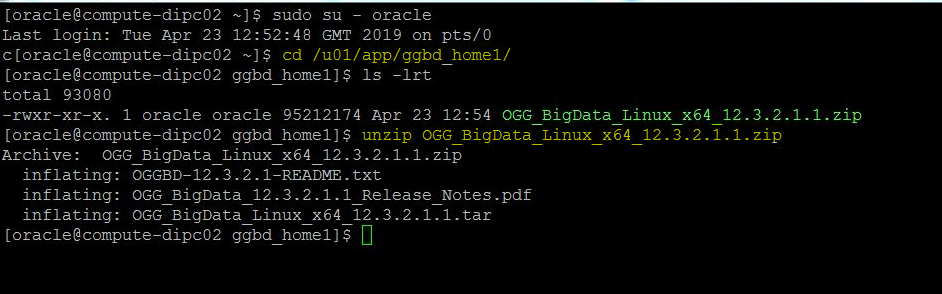
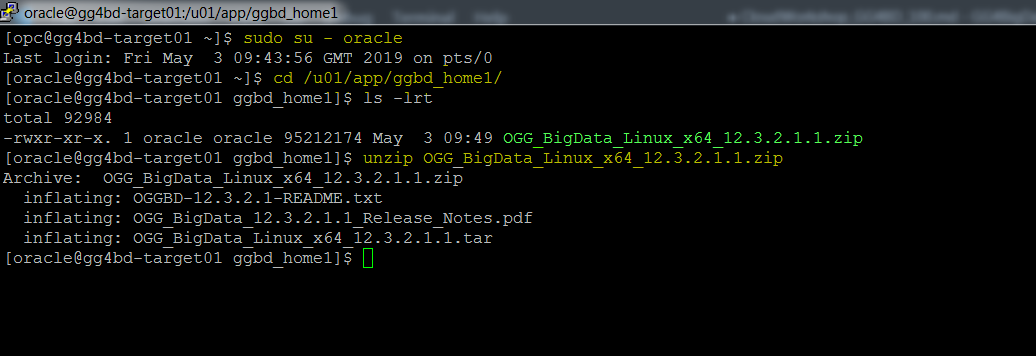
Completed

Changed region(s): [[0.0, 0.0, 1.0, 0.8265]]

diff --git a/CloudWorkshop_GG4BD_100.md b/CloudWorkshop_GG4BD_100.md
@@ -40,41 +40,40 @@ In this step you will use putty client to connect to Oracle Cloud Compte environ
 1. Create a Directory to install the Goldengate for bigdata. Here we have created /u01/app/ggbd_home1
 
 ```
-[opc@compute-dipc02 ~]$ sudo su - oracle
-Last login: Fri Apr 26 09:32:22 GMT 2019 on pts/2
-[oracle@compute-dipc02 ~]$ mkdir /u01/app/ggbd_home1
+[opc@gg4bd-target01 ~]$ sudo su - oracle
+Last login: Fri May  3 09:30:10 GMT 2019 on pts/0
+[oracle@gg4bd-target01 ~]$ mkdir /u01/app/ggbd_home1
 ```
 
 2. Sudo into the oracle user and Verify the environment variables as java jdk would be already installed and environment variables should be set already. Below are the sample environment variables.
 
 ```
 export GGBD_HOME=/u01/app/ggbd_home1
-export JAVA_HOME=/usr/java/jdk1.8.0_201-amd64
-export JRE_HOME=/usr/java/jdk1.8.0_201-amd64/jre
-export PATH=/usr/sbin:$ORACLE_HOME/bin:$JAVA_HOME/bin:$PATH
-export LD_LIBRARY_PATH=$JAVA_HOME/jre/lib/amd64/server:$JAVA_HOME/lib:$ORACLE_HOME/lib
+export JAVA_HOME=/u01/app/jdk1.8.0_211
+export JRE_HOME=/u01/app/jdk1.8.0_211/jre
+export PATH=/usr/sbin:${JAVA_HOME}/bin:${JRE_HOME}/bin:${PATH}:.
+export LD_LIBRARY_PATH=$JAVA_HOME/jre/lib/amd64/server:$JAVA_HOME/lib
 export CLASSPATH=$JAVA_HOME/lib:/u01/app/ggbd_home1/ggjava
 ```
 
 3. From the terminal screen change to the Downloads directory and You will fine the Goldengate for bigdata software there.
 
 ```
-[oracle@compute-dipc02 ~]$ cd ~/Downloads/
-[oracle@compute-dipc02 Downloads]$ ls -lrt
-total 92984
--rwxr-xr-x. 1 oracle oracle 95212174 Apr 24 11:42 OGG_BigData_Linux_x64_12.3.2.1.1.zip
-[oracle@compute-dipc02 Downloads]$
-
+[oracle@gg4bd-target01 ~]$ cd ~/Downloads/
+[oracle@gg4bd-target01 Downloads]$ ls -lrt
+total 731840
+-rwxr-xr-x. 1 oracle oracle  95212174 May  3 09:28 OGG_BigData_Linux_x64_12.3.2.1.1.zip
+[oracle@gg4bd-target01 Downloads]$
 ```
 
 4. Copy this Goldengate for Bigdata software into the directory you created in step 1 for installation.
 
 ```
-[oracle@compute-dipc02 ~]$ cd ~/Downloads/
-[oracle@compute-dipc02 Downloads]$ ls -lrt
+[oracle@gg4bd-target01 Downloads]$ cd ~/Downloads/
+[oracle@gg4bd-target01 Downloads]$ ls -lrt
 total 92984
--rwxr-xr-x. 1 oracle oracle 95212174 Apr 24 11:42 OGG_BigData_Linux_x64_12.3.2.1.1.zip
-[oracle@compute-dipc02 Downloads]$ cp OGG_BigData_Linux_x64_12.3.2.1.1.zip /u01/app/ggbd_home1/
+-rwxr-xr-x. 1 oracle oracle  95212174 May  3 09:28 OGG_BigData_Linux_x64_12.3.2.1.1.zip
+[oracle@gg4bd-target01 Downloads]$ cp OGG_BigData_Linux_x64_12.3.2.1.1.zip /u01/app/ggbd_home1/
 ```
 
 ### STEP 3: Install Goldengate For Bigdata and start the manager process
